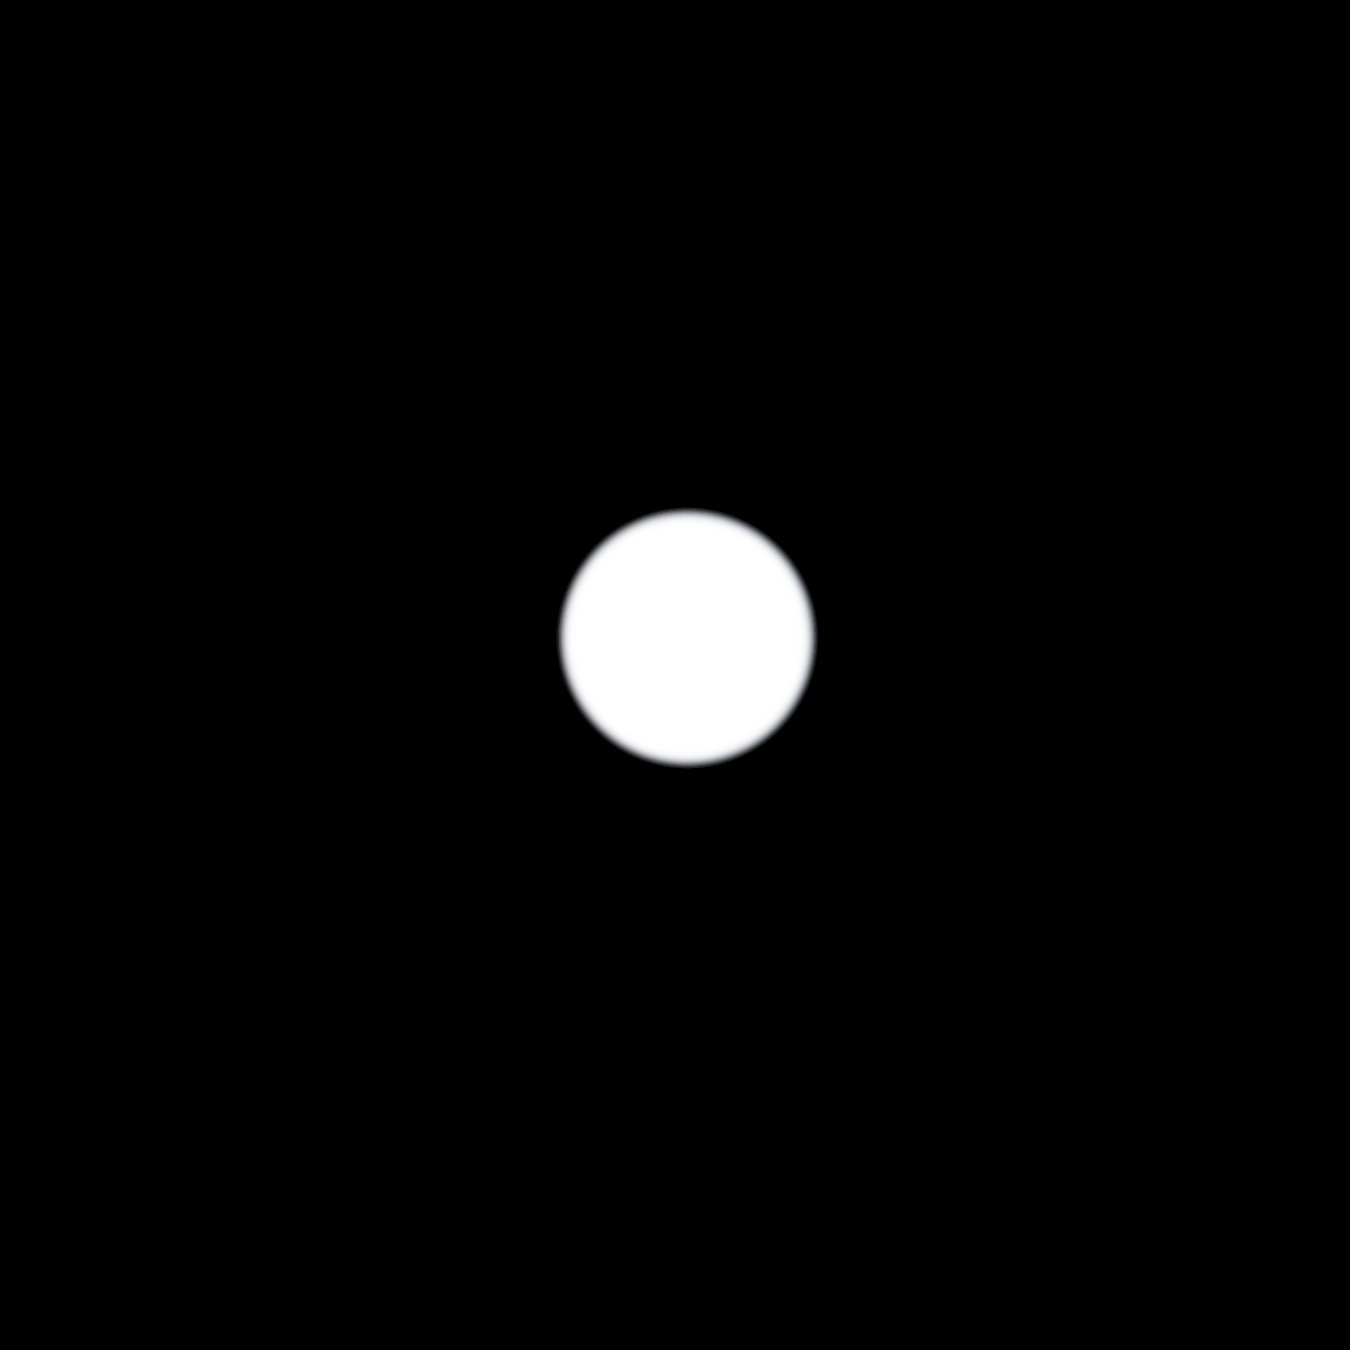
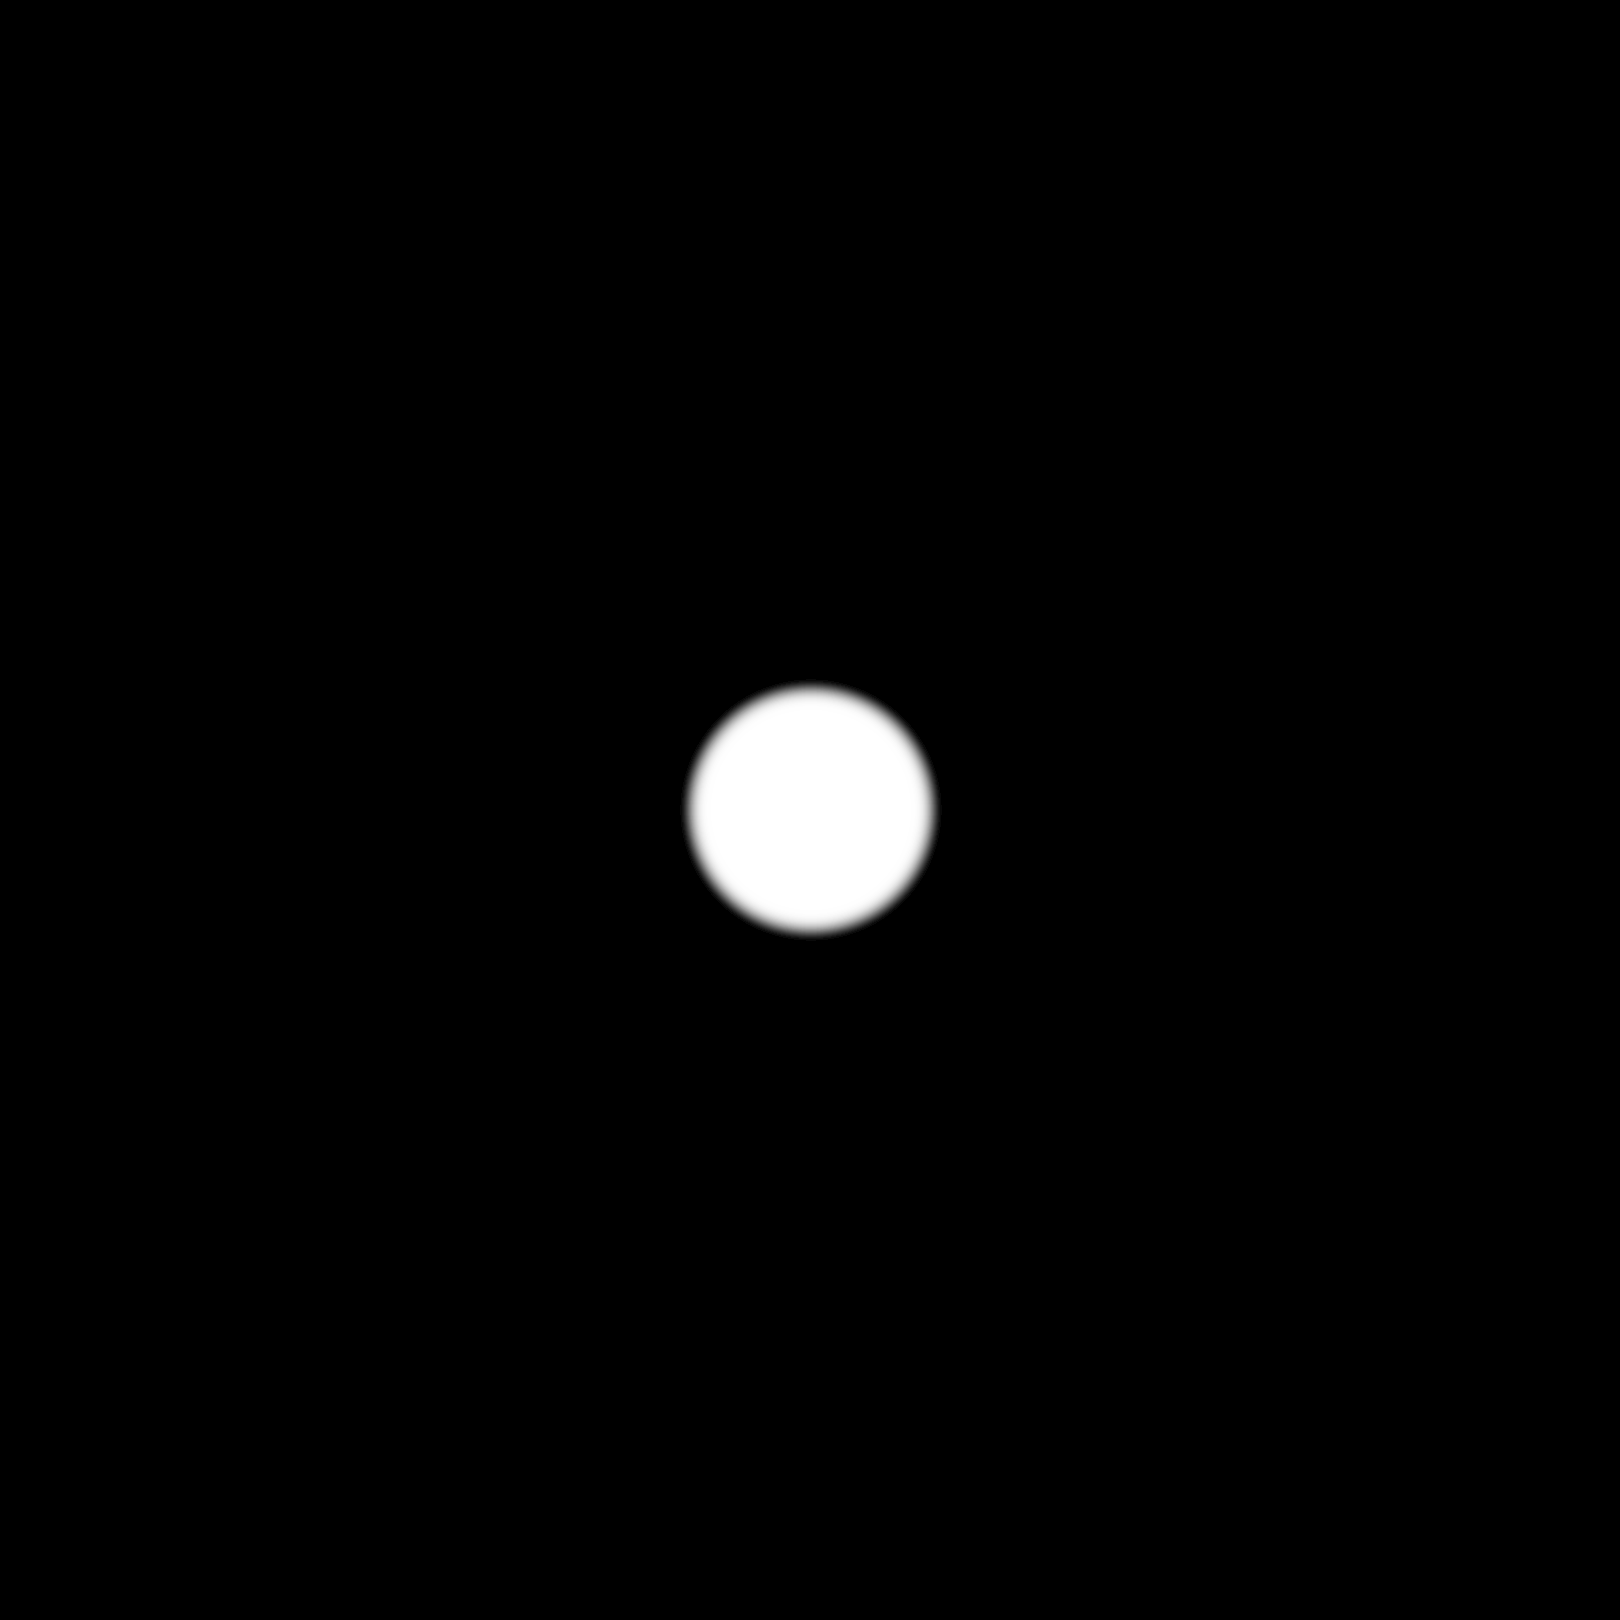
Vision works

Changed region(s): [[0.4044, 0.3733, 0.6222, 0.5911]]

diff --git a/Model/Inventory.py b/Model/Inventory.py
@@ -48,13 +48,13 @@ class Inventory:
 
     def drink_health_potion(self):
         if self.has_health_potion():
-            self.health_potions[0].drink()
-            del self.health_potions[0]
+            self.health_potions[-1].drink()
+            del self.health_potions[-1]
 
     def drink_vision_potion(self):
         if len(self.vision_potions) > 0:
-            self.vision_potions[0].drink()
-            del self.vision_potions[0]
+            self.vision_potions[-1].drink()
+            del self.vision_potions[-1]
 
     def has_all_pillars(self):
         return len(self.pillars) == 4

diff --git a/Controller/maze_controller.py b/Controller/maze_controller.py
@@ -204,8 +204,6 @@ def handle_event(event):
         Inventory.get_instance().add(room.get_potion())
         room.set_potion(None)
     if event.type == MONSTER_BATTLE:
-        print(room.get_location())
-        print(room.get_monster())
         player.down = False
         player.up = False
         player.right = False
@@ -246,5 +244,4 @@ def get_current_room():
     y = Hero.get_instance().get_y()
     room_x = x//maze_view.room_size
     room_y = y//maze_view.room_size
-    print(room_x, room_y)
     return array[room_x][room_y]

diff --git a/View/maze_view.py b/View/maze_view.py
@@ -227,5 +227,9 @@ def draw_inventory(screen):
     return health_rects, vision_rects
 
 def draw_vision(screen):
+    camera_offset_x, camera_offset_y = get_camera_offset()
+    x_center = Hero.get_instance().get_x() - camera_offset_x
+    y_center = Hero.get_instance().get_y() - camera_offset_y
     img = pygame.image.load("vision.png")
-    screen.blit(img, (-270,-240))
+
+    screen.blit(img, (x_center - room_size*2.92,y_center - room_size*2.92))
